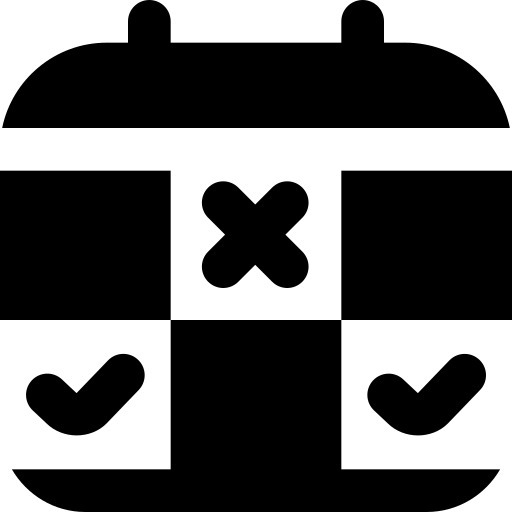
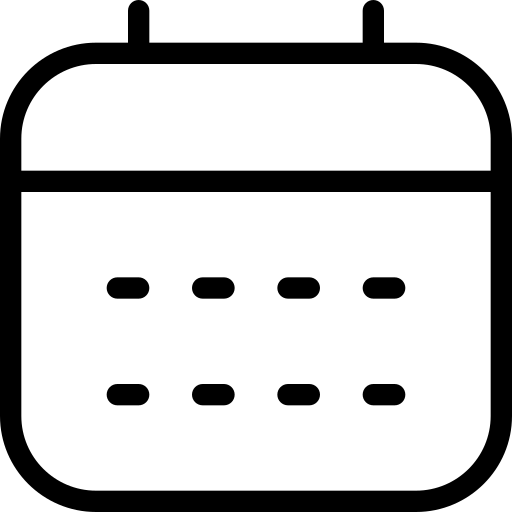
second commit

diff --git a/index.html b/index.html
@@ -27,46 +27,124 @@
         <div class="info-container">
 
             <div class="info-card vlv">
-                <div class="photo-cont foto1 q"></div>
-                <div class="text-cont q">
-                    <div class="name-cont r">
-                        <div class="name o"></div>
-                        <div class="name-text o"></div>
+                <div class="photo-cont foto1"></div>
+                <div class="text-cont">
+                    <div class="name-cont">
+                        <div class="name">Севрюк Михаил Дмитриевич 9«А».</div>
+                        <div class="name-text">Директор партии, публичный представитель и руководстводитель. Организатор. Старательный, целеустремлённый, умный. Создатель большого количества проектов на различные темы и сферы жизни. Эрудированный и наамбедекстрированный человек. Разбирается практически во всех сферах жизни. Легко и быстро обучаем. Активно принимает учатсие в жизни школы. Является юнармейцем и принимал присягу у Главнокомандующего Северного флота Александра Алексеевича Моисеева. Активный участник различных конкурсов и олимпиад. Готов работать со своей командой во благо людей, находящихся в нашей школе.</div>
                     </div>
-                    <div class="success-cont r">
-                        <div class="success o"></div>
-                        <div class="success-text o"></div>
+                    <div class="success-cont">
+                        <div class="success">Достижения:</div>
+                        <div class="success-text"> победитель VII Международного конкурса «История местного самоуправления моего края». Участник V Международного конкурса «Туристический код моей страны.PRO-туризм». Победитель XXIII Региональнойй научно-практической конференции школьников «Краснодарская научная весна». Победитель Краевых этапов олимпиад по математике.</div>
                     </div>
                     <div class="quote-cont r">
-                        <div class="quote o"></div>
-                        <div class="quote-text o"></div>
+                        <div class="quote">Цитата:</div>
+                        <div class="quote-text">«Будущее школы - в наших руках» </div>
                     </div>
                 </div>
             </div>
-            <!-- <div class="info-card vlv">
-                <div class="photo-cont foto2"></div>
-                <div class="text-cont"></div>
+            <div class="info-card vlv">
+                <div class="photo-cont foto1"></div>
+                <div class="text-cont">
+                    <div class="name-cont">
+                        <div class="name">Севрюк Михаил Дмитриевич 9«А».</div>
+                        <div class="name-text">Директор партии, публичный представитель и руководстводитель. Организатор. Старательный, целеустремлённый, умный. Создатель большого количества проектов на различные темы и сферы жизни. Эрудированный и наамбедекстрированный человек. Разбирается практически во всех сферах жизни. Легко и быстро обучаем. Активно принимает учатсие в жизни школы. Является юнармейцем и принимал присягу у Главнокомандующего Северного флота Александра Алексеевича Моисеева. Активный участник различных конкурсов и олимпиад. Готов работать со своей командой во благо людей, находящихся в нашей школе.</div>
+                    </div>
+                    <div class="success-cont">
+                        <div class="success">Достижения:</div>
+                        <div class="success-text"> победитель VII Международного конкурса «История местного самоуправления моего края». Участник V Международного конкурса «Туристический код моей страны.PRO-туризм». Победитель XXIII Региональнойй научно-практической конференции школьников «Краснодарская научная весна». Победитель Краевых этапов олимпиад по математике.</div>
+                    </div>
+                    <div class="quote-cont r">
+                        <div class="quote">Цитата:</div>
+                        <div class="quote-text">«Будущее школы - в наших руках» </div>
+                    </div>
+                </div>
             </div>
-                        <div class="info-card vlv">
-                <div class="photo-cont foto3"></div>
-                <div class="text-cont"></div>
+            <div class="info-card vlv">
+                <div class="photo-cont foto1"></div>
+                <div class="text-cont">
+                    <div class="name-cont">
+                        <div class="name">Севрюк Михаил Дмитриевич 9«А».</div>
+                        <div class="name-text">Директор партии, публичный представитель и руководстводитель. Организатор. Старательный, целеустремлённый, умный. Создатель большого количества проектов на различные темы и сферы жизни. Эрудированный и наамбедекстрированный человек. Разбирается практически во всех сферах жизни. Легко и быстро обучаем. Активно принимает учатсие в жизни школы. Является юнармейцем и принимал присягу у Главнокомандующего Северного флота Александра Алексеевича Моисеева. Активный участник различных конкурсов и олимпиад. Готов работать со своей командой во благо людей, находящихся в нашей школе.</div>
+                    </div>
+                    <div class="success-cont">
+                        <div class="success">Достижения:</div>
+                        <div class="success-text"> победитель VII Международного конкурса «История местного самоуправления моего края». Участник V Международного конкурса «Туристический код моей страны.PRO-туризм». Победитель XXIII Региональнойй научно-практической конференции школьников «Краснодарская научная весна». Победитель Краевых этапов олимпиад по математике.</div>
+                    </div>
+                    <div class="quote-cont r">
+                        <div class="quote">Цитата:</div>
+                        <div class="quote-text">«Будущее школы - в наших руках» </div>
+                    </div>
+                </div>
             </div>
-                        <div class="info-card vlv">
-                <div class="photo-cont foto4"></div>
-                <div class="text-cont"></div>
+            <div class="info-card vlv">
+                <div class="photo-cont foto1"></div>
+                <div class="text-cont">
+                    <div class="name-cont">
+                        <div class="name">Севрюк Михаил Дмитриевич 9«А».</div>
+                        <div class="name-text">Директор партии, публичный представитель и руководстводитель. Организатор. Старательный, целеустремлённый, умный. Создатель большого количества проектов на различные темы и сферы жизни. Эрудированный и наамбедекстрированный человек. Разбирается практически во всех сферах жизни. Легко и быстро обучаем. Активно принимает учатсие в жизни школы. Является юнармейцем и принимал присягу у Главнокомандующего Северного флота Александра Алексеевича Моисеева. Активный участник различных конкурсов и олимпиад. Готов работать со своей командой во благо людей, находящихся в нашей школе.</div>
+                    </div>
+                    <div class="success-cont">
+                        <div class="success">Достижения:</div>
+                        <div class="success-text"> победитель VII Международного конкурса «История местного самоуправления моего края». Участник V Международного конкурса «Туристический код моей страны.PRO-туризм». Победитель XXIII Региональнойй научно-практической конференции школьников «Краснодарская научная весна». Победитель Краевых этапов олимпиад по математике.</div>
+                    </div>
+                    <div class="quote-cont r">
+                        <div class="quote">Цитата:</div>
+                        <div class="quote-text">«Будущее школы - в наших руках» </div>
+                    </div>
+                </div>
             </div>
-                        <div class="info-card vlv">
-                <div class="photo-cont foto5"></div>
-                <div class="text-cont"></div>
+            <div class="info-card vlv">
+                <div class="photo-cont foto1"></div>
+                <div class="text-cont">
+                    <div class="name-cont">
+                        <div class="name">Севрюк Михаил Дмитриевич 9«А».</div>
+                        <div class="name-text">Директор партии, публичный представитель и руководстводитель. Организатор. Старательный, целеустремлённый, умный. Создатель большого количества проектов на различные темы и сферы жизни. Эрудированный и наамбедекстрированный человек. Разбирается практически во всех сферах жизни. Легко и быстро обучаем. Активно принимает учатсие в жизни школы. Является юнармейцем и принимал присягу у Главнокомандующего Северного флота Александра Алексеевича Моисеева. Активный участник различных конкурсов и олимпиад. Готов работать со своей командой во благо людей, находящихся в нашей школе.</div>
+                    </div>
+                    <div class="success-cont">
+                        <div class="success">Достижения:</div>
+                        <div class="success-text"> победитель VII Международного конкурса «История местного самоуправления моего края». Участник V Международного конкурса «Туристический код моей страны.PRO-туризм». Победитель XXIII Региональнойй научно-практической конференции школьников «Краснодарская научная весна». Победитель Краевых этапов олимпиад по математике.</div>
+                    </div>
+                    <div class="quote-cont r">
+                        <div class="quote">Цитата:</div>
+                        <div class="quote-text">«Будущее школы - в наших руках» </div>
+                    </div>
+                </div>
             </div>
-                        <div class="info-card vlv">
-                <div class="photo-cont foto6"></div>
-                <div class="text-cont"></div>
+            <div class="info-card vlv">
+                <div class="photo-cont foto1"></div>
+                <div class="text-cont">
+                    <div class="name-cont">
+                        <div class="name">Севрюк Михаил Дмитриевич 9«А».</div>
+                        <div class="name-text">Директор партии, публичный представитель и руководстводитель. Организатор. Старательный, целеустремлённый, умный. Создатель большого количества проектов на различные темы и сферы жизни. Эрудированный и наамбедекстрированный человек. Разбирается практически во всех сферах жизни. Легко и быстро обучаем. Активно принимает учатсие в жизни школы. Является юнармейцем и принимал присягу у Главнокомандующего Северного флота Александра Алексеевича Моисеева. Активный участник различных конкурсов и олимпиад. Готов работать со своей командой во благо людей, находящихся в нашей школе.</div>
+                    </div>
+                    <div class="success-cont">
+                        <div class="success">Достижения:</div>
+                        <div class="success-text"> победитель VII Международного конкурса «История местного самоуправления моего края». Участник V Международного конкурса «Туристический код моей страны.PRO-туризм». Победитель XXIII Региональнойй научно-практической конференции школьников «Краснодарская научная весна». Победитель Краевых этапов олимпиад по математике.</div>
+                    </div>
+                    <div class="quote-cont r">
+                        <div class="quote">Цитата:</div>
+                        <div class="quote-text">«Будущее школы - в наших руках» </div>
+                    </div>
+                </div>
             </div>
-                        <div class="info-card vlv">
-                <div class="photo-cont foto7"></div>
-                <div class="text-cont"></div>
-            </div> -->
+            <div class="info-card vlv">
+                <div class="photo-cont foto1"></div>
+                <div class="text-cont">
+                    <div class="name-cont">
+                        <div class="name">Севрюк Михаил Дмитриевич 9«А».</div>
+                        <div class="name-text">Директор партии, публичный представитель и руководстводитель. Организатор. Старательный, целеустремлённый, умный. Создатель большого количества проектов на различные темы и сферы жизни. Эрудированный и наамбедекстрированный человек. Разбирается практически во всех сферах жизни. Легко и быстро обучаем. Активно принимает учатсие в жизни школы. Является юнармейцем и принимал присягу у Главнокомандующего Северного флота Александра Алексеевича Моисеева. Активный участник различных конкурсов и олимпиад. Готов работать со своей командой во благо людей, находящихся в нашей школе.</div>
+                    </div>
+                    <div class="success-cont">
+                        <div class="success">Достижения:</div>
+                        <div class="success-text"> победитель VII Международного конкурса «История местного самоуправления моего края». Участник V Международного конкурса «Туристический код моей страны.PRO-туризм». Победитель XXIII Региональнойй научно-практической конференции школьников «Краснодарская научная весна». Победитель Краевых этапов олимпиад по математике.</div>
+                    </div>
+                    <div class="quote-cont r">
+                        <div class="quote">Цитата:</div>
+                        <div class="quote-text">«Будущее школы - в наших руках» </div>
+                    </div>
+                </div>
+            </div>
         </div>
     </div>
 </div>

diff --git a/assets/css/style.css b/assets/css/style.css
@@ -164,7 +164,7 @@ body{
 .text-cont{
     display: grid;
     grid-template-columns:100%;
-    grid-template-rows:40% 40% 20%;
+    grid-template-rows:50% 40% 10%;
     justify-content: center;
     align-content: center;
 }
@@ -178,19 +178,65 @@ body{
 .success-cont{
     display: grid;
     grid-template-columns:100%;
-    grid-template-rows:15% 85%;
+    grid-template-rows:20% 80%;
     justify-content: center;
     align-content: center;
 }
 .quote-cont{
     display: grid;
-    grid-template-columns:100%;
-    grid-template-rows:20% 80%;
+    grid-template-columns:10% 90%;
+    grid-template-rows:100%;
     justify-content: center;
     align-content: center;
 }
 
+/* настройка текста */
+.name{
+    font-family: 'Arial', sans-serif; 
+    font-size: 1.5vh;          
+    font-weight: 1000;     
+    color: #1e3b23;          
+    letter-spacing: 0.03vh;  
+}
+.name-text{
+    font-family: 'Arial', sans-serif; 
+    font-size: 1.3vh;          
+    font-weight: 600;        
+    color: #1e3b23;          
+    letter-spacing: 0.03vh;  
+}
 
+.success{
+    font-family: 'Arial', sans-serif; 
+    font-size: 1.4vh;          
+    font-weight: 1000;     
+    color: #1e3b23;          
+    letter-spacing: 0.03vh;  
+}
+.success-text{
+    font-family: 'Arial', sans-serif; 
+    font-size: 1.3vh;          
+    font-weight: 600;        
+    color: #1e3b23;          
+    letter-spacing: 0.03vh;  
+}
+
+.quote{
+    font-family: 'Arial', sans-serif; 
+    font-size: 1.4vh;          
+    font-weight: 1000;     
+    color: #1e3b23;          
+    letter-spacing: 0.03vh;  
+    align-content: center;
+}
+.quote-text{
+    font-family: 'Arial', sans-serif; 
+    font-size: 1.3vh;          
+    font-weight: 600;        
+    color: #1e3b23;          
+    letter-spacing: 0.03vh;  
+    align-content: center;
+}
 
 
 
@@ -228,22 +274,4 @@ body{
     background-color:#63D68E;
 }
 
-.q{
-    border: 1px solid red;
-}
 
-.r{
-    border: 1px solid blue;
-}
-
-.o{
-    border: 1px solid pink;
-}
-/* 
-
-font-family: 'Arial', sans-serif; 
-    font-size: 1vh;          
-    font-weight: 600;        
-    color: #1e293b;          
-    text-transform: uppercase;
-    letter-spacing: 0.5px; */
